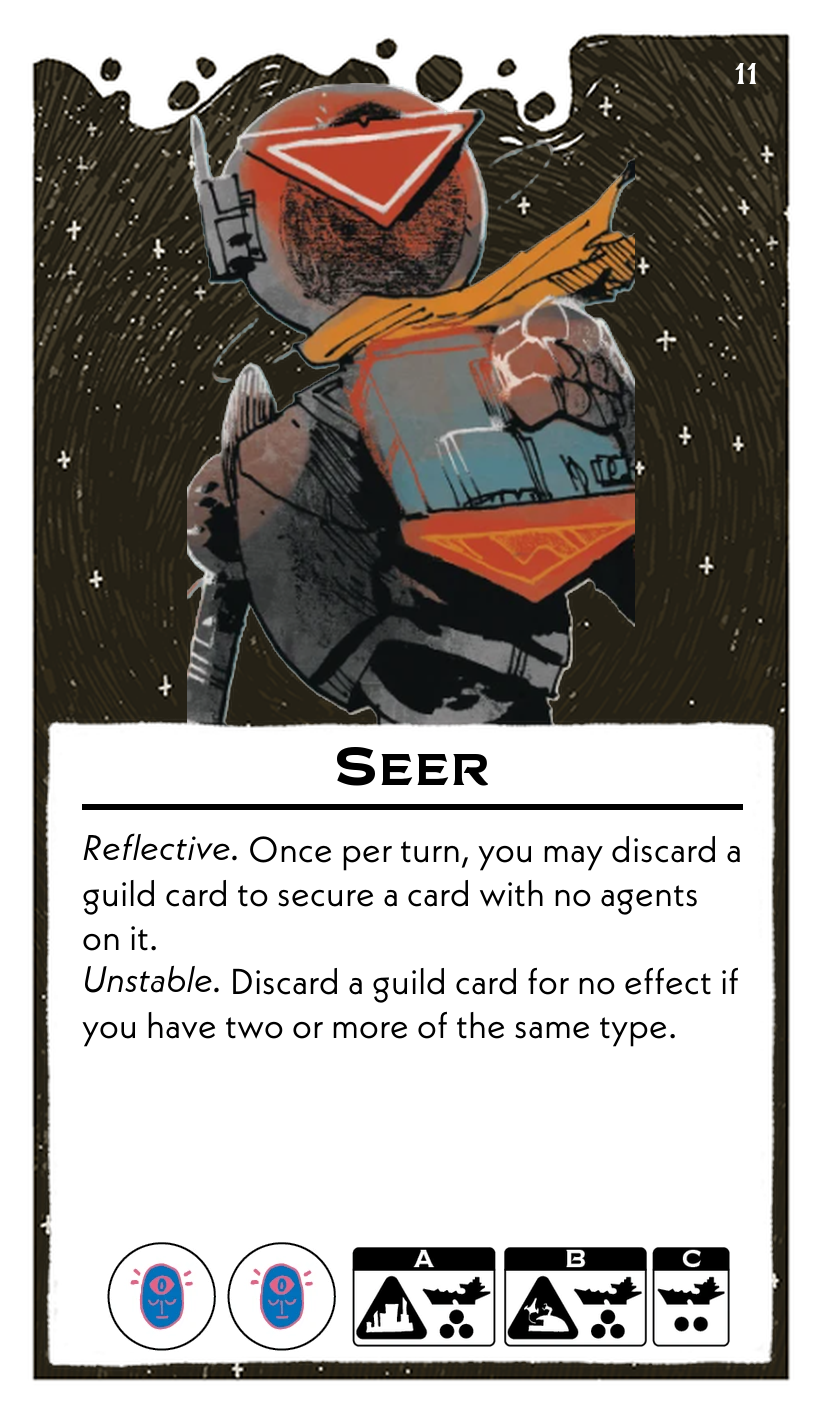
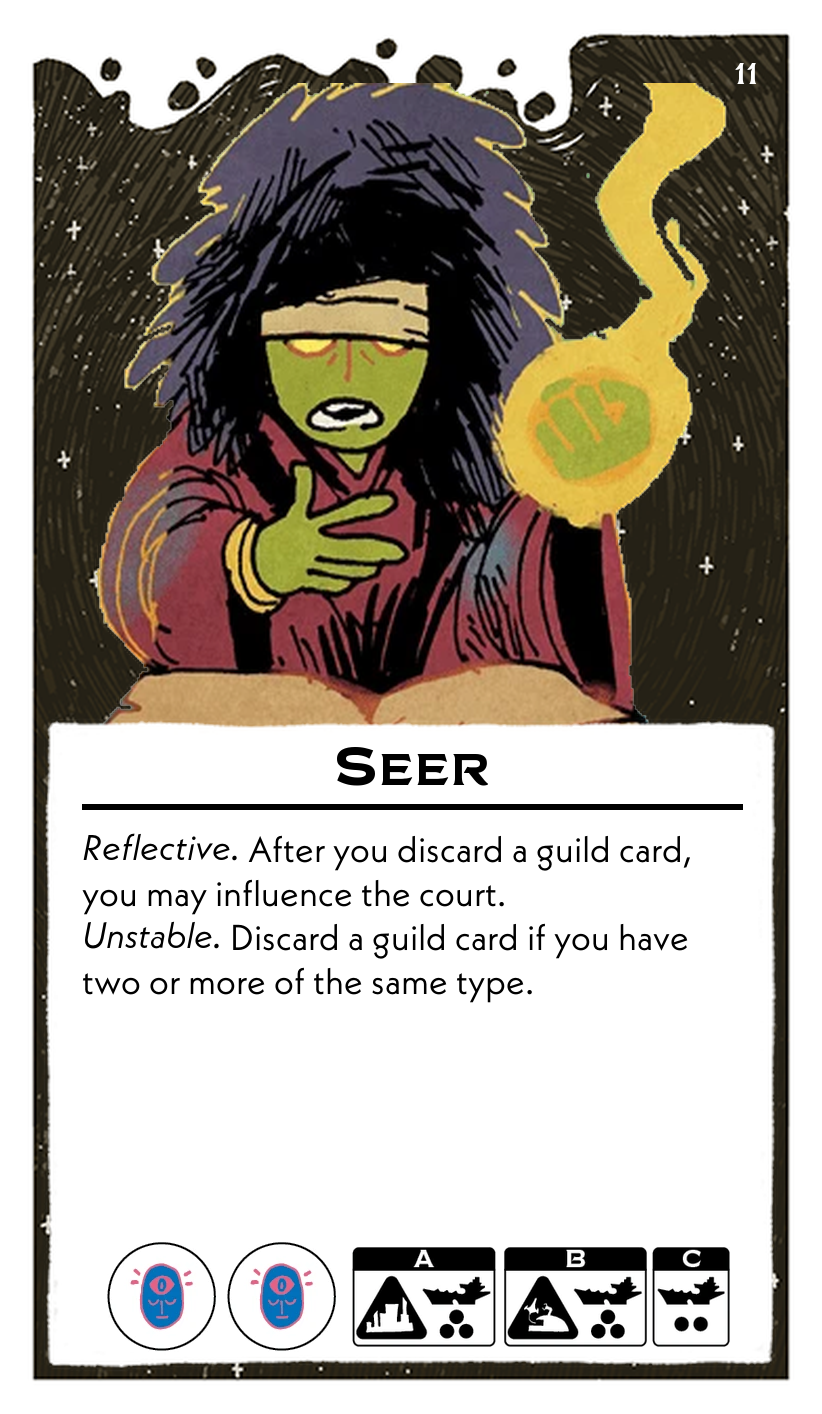
seer

Changed region(s): [[0.1217, 0.0311, 0.882, 0.529], [0.0912, 0.5912, 0.9124, 0.7468]]

diff --git a/scripts/leadersFormatted.py b/scripts/leadersFormatted.py
@@ -91,7 +91,7 @@ leaders = [
             "B": {"ships": 3, "building": "starport"},
             "C": {"ships": 2, "building": "None"}
         },
-        "body_font_size": 18
+        "body_font_size": 18,
     },
     # Necromancer
     {
@@ -106,7 +106,7 @@ leaders = [
             "B": {"ships": 3, "building": "starport"},
             "C": {"ships": 2, "building": "None"}
         },
-        "body_font_size": 18
+        "body_font_size": 18,
     },
     # Composer
     {
@@ -159,8 +159,8 @@ leaders = [
     {
         "name": "Seer",
         "abilities": (
-            "*Reflective.* Once per turn, you may discard a guild card to secure a card with no agents on it.\n"
-            "*Unstable.* Discard a guild card for no effect if you have two or more of the same type."
+            "*Reflective.* After you discard a guild card, you may influence the court.\n"
+            "*Unstable.* Discard a guild card if you have two or more of the same type."
         ),
         "resources": ["Psionic", "Psionic"],
         "setup": {
